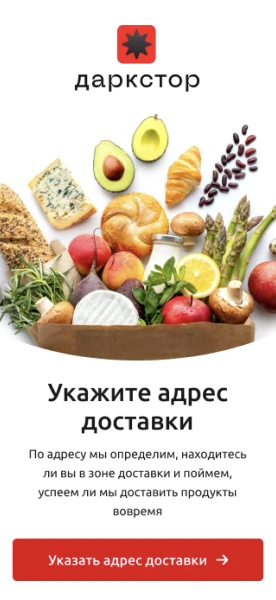
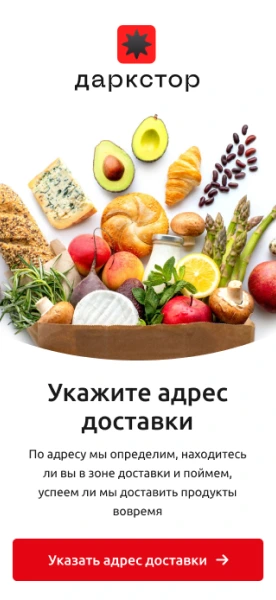
Content edition

diff --git a/ui/ProjectCard/index.module.scss b/ui/ProjectCard/index.module.scss
@@ -164,15 +164,27 @@
 	}
 
 	&__left {
-		background-image: url(./asset/store/left.jpg);
+		background-image:
+			image-set(
+				url(./asset/store/left.webp) type("image/webp"),
+				url(./asset/store/left.jpg) type("image/jpeg")
+			);
 	}
 
 	&__center {
-		background-image: url(./asset/store/center.jpg);
+		background-image:
+			image-set(
+				url(./asset/store/center.webp) type("image/webp"),
+				url(./asset/store/center.jpg) type("image/jpeg")
+			);
 	}
 
 	&__right {
-		background-image: url(./asset/store/right.jpg);
+		background-image:
+			image-set(
+				url(./asset/store/right.webp) type("image/webp"),
+				url(./asset/store/right.jpg) type("image/jpeg")
+			);
 	}
 
 	&_visible {
@@ -230,14 +242,22 @@
 	&__left {
 		width: 138px;
 		height: 300px;
-		background-image: url(./asset/darkstore/left.jpg);
+		background-image:
+			image-set(
+				url(./asset/darkstore/left.webp) type("image/webp"),
+				url(./asset/darkstore/left.jpg) type("image/jpeg")
+			);
 		border-radius: 7px;
 	}
 
 	&__right {
 		width: 321px;
 		height: 360px;
-		background-image: url(./asset/darkstore/right.jpg);
+		background-image:
+			image-set(
+				url(./asset/darkstore/right.webp) type("image/webp"),
+				url(./asset/darkstore/right.jpg) type("image/jpeg")
+			);
 		border-radius: 7px 0 0;
 	}
 
@@ -399,13 +419,75 @@
 	}
 }
 
+.marketplace {
+	position: relative;
+	height: 100%;
+
+	&__bottom,
+	&__top {
+		position: absolute;
+		display: flex;
+		align-items: flex-end;
+		overflow: hidden;
+		border-radius: 7px 0 0;
+		opacity: 0;
+	}
+
+	&__bottom {
+		right: 0;
+		bottom: -40px;
+		z-index: 1;
+		width: 453px;
+		box-shadow: 0 -3px 18px 1px rgb(0 0 0 / 14%);
+	}
+
+	&__top {
+		right: -140px;
+		bottom: 120px;
+		width: 556px;
+	}
+
+	&_visible {
+		.marketplace__bottom {
+			opacity: 1;
+			animation: slide-up-300 0.5s cubic-bezier(0.34, 1.56, 0.64, 1), fade-in 0.3s linear;
+		}
+
+		.marketplace__top {
+			opacity: 1;
+			animation: slide-up-300 0.6s cubic-bezier(0.34, 1.56, 0.64, 1), fade-in 0.6s linear;
+		}
+	}
+
+	@media (max-width: 900px) {
+		&__top {
+			right: 0;
+			bottom: -30px;
+			left: 20px;
+			width: 520px;
+			margin: 0 auto;
+			border-radius: 5px 5px 0 0;
+		}
+
+		&__bottom {
+			display: none;
+		}
+	}
+}
+
 .kran {
 	position: relative;
 	display: flex;
 	align-items: center;
 	justify-content: flex-end;
 	height: 100%;
-	background: url(./asset/kran/bg.jpg) no-repeat center right -92px;
+	background-image:
+		image-set(
+			url(./asset/kran/bg.webp) type("image/webp"),
+			url(./asset/kran/bg.jpg) type("image/jpeg")
+		);
+	background-repeat: no-repeat;
+	background-position: center right -92px;
 	background-size: auto 477px;
 	opacity: 0;
 
@@ -471,19 +553,31 @@
 	&__left {
 		width: 208px;
 		height: 395px;
-		background-image: url(./asset/birden/left.png);
+		background-image:
+			image-set(
+				url(./asset/birden/left.webp) type("image/webp"),
+				url(./asset/birden/left.png) type("image/png")
+			);
 	}
 
 	&__center {
 		width: 108px;
 		height: 395px;
-		background-image: url(./asset/birden/center.png);
+		background-image:
+			image-set(
+				url(./asset/birden/center.webp) type("image/webp"),
+				url(./asset/birden/center.png) type("image/png")
+			);
 	}
 
 	&__right {
 		width: 119px;
 		height: 395px;
-		background-image: url(./asset/birden/right.png);
+		background-image:
+			image-set(
+				url(./asset/birden/right.webp) type("image/webp"),
+				url(./asset/birden/right.png) type("image/png")
+			);
 	}
 
 	&_visible {

diff --git a/ui/Factoid/index.module.scss b/ui/Factoid/index.module.scss
@@ -72,7 +72,11 @@
 	}
 
 	&__left {
-		background-image: url(./asset/parser-recruiter/left.jpg);
+		background-image:
+			image-set(
+				url(./asset/parser-recruiter/left.webp) type("image/webp"),
+				url(./asset/parser-recruiter/left.jpg) type("image/jpeg")
+			);
 		filter: blur(1px);
 		transform: translate(-60px, 0) rotate(-17deg);
 		transform-origin: right;
@@ -80,12 +84,20 @@
 
 	&__center {
 		z-index: 1;
-		background-image: url(./asset/parser-recruiter/center.jpg);
+		background-image:
+			image-set(
+				url(./asset/parser-recruiter/center.webp) type("image/webp"),
+				url(./asset/parser-recruiter/center.jpg) type("image/jpeg")
+			);
 		box-shadow: 0 9px 26px 15px rgb(130 67 100 / 17%);
 	}
 
 	&__right {
-		background-image: url(./asset/parser-recruiter/right.jpg);
+		background-image:
+			image-set(
+				url(./asset/parser-recruiter/right.webp) type("image/webp"),
+				url(./asset/parser-recruiter/right.jpg) type("image/jpeg")
+			);
 		filter: blur(1px);
 		transform: translate(60px, 0) rotate(17deg);
 		transform-origin: left;
@@ -199,7 +211,11 @@
 	}
 
 	&__left {
-		background-image: url(./asset/verdi/aside.jpg);
+		background-image:
+			image-set(
+				url(./asset/verdi/aside.webp) type("image/webp"),
+				url(./asset/verdi/aside.jpg) type("image/jpeg")
+			);
 		filter: blur(1px);
 		transform: translate(-60px, 0) rotate(-17deg);
 		transform-origin: right;
@@ -207,12 +223,20 @@
 
 	&__center {
 		z-index: 1;
-		background-image: url(./asset/verdi/center.jpg);
+		background-image:
+			image-set(
+				url(./asset/verdi/center.webp) type("image/webp"),
+				url(./asset/verdi/center.jpg) type("image/jpeg")
+			);
 		box-shadow: 0 9px 26px 15px rgb(130 67 100 / 17%);
 	}
 
 	&__right {
-		background-image: url(./asset/verdi/aside.jpg);
+		background-image:
+			image-set(
+				url(./asset/verdi/aside.webp) type("image/webp"),
+				url(./asset/verdi/aside.jpg) type("image/jpeg")
+			);
 		filter: blur(1px);
 		transform: translate(60px, 0) rotate(17deg);
 		transform-origin: left;
@@ -253,7 +277,11 @@
 	}
 
 	&__left {
-		background-image: url(./asset/behance/left.jpg);
+		background-image:
+			image-set(
+				url(./asset/behance/left.webp) type("image/webp"),
+				url(./asset/behance/left.jpg) type("image/jpeg")
+			);
 		filter: blur(1px);
 		transform: translate(-120px, 30px) rotate(-17deg);
 		transform-origin: right;
@@ -265,7 +293,11 @@
 		z-index: 1;
 		width: 236px;
 		height: 241px;
-		background-image: url(./asset/behance/center.jpg);
+		background-image:
+			image-set(
+				url(./asset/behance/center.webp) type("image/webp"),
+				url(./asset/behance/center.jpg) type("image/jpeg")
+			);
 		background-repeat: no-repeat;
 		background-size: 236px 241px;
 		border-radius: 7px 7px 0 0;
@@ -275,7 +307,11 @@
 	}
 
 	&__right {
-		background-image: url(./asset/behance/right.jpg);
+		background-image:
+			image-set(
+				url(./asset/behance/right.webp) type("image/webp"),
+				url(./asset/behance/right.jpg) type("image/jpeg")
+			);
 		filter: blur(1px);
 		transform: translate(120px, 30px) rotate(17deg);
 		transform-origin: left;

diff --git a/ui/ProjectCard/index.tsx b/ui/ProjectCard/index.tsx
@@ -13,6 +13,9 @@ import UaeLeft from './asset/uae/left.jpg'
 import UaeRight from './asset/uae/right.jpg'
 import SamoImage from './asset/samo/image.jpg'
 
+import MarketplaceBottomImage from './asset/marketplace/bottom.jpg'
+import MarketplaceTopImage from './asset/marketplace/top.jpg'
+
 export function ProjectCard({ data }: { data: Project }) {
   return (
     <div className={st['project-card']}>
@@ -62,6 +65,24 @@ export function ProjectCardLargeBase({ data, children, onVisible }: { data: Proj
         { children }
       </div>
     </div>
+  )
+}
+
+export function ProjectCardLargeMarketplace({ data }: { data: Project }) {
+  const [isVisible, setIsVisible] = useState(false)
+  return (
+    <ProjectCardLargeBase data={data} onVisible={() => setIsVisible(true)}>
+      <div className={cls(st['marketplace'], {
+        [st['marketplace_visible']]: isVisible
+      })}>
+        <div className={st['marketplace__bottom']}>
+          <Image src={MarketplaceBottomImage} width="453" className={st['marketplace__preview']} alt={data.title} />
+        </div>
+        <div className={st['marketplace__top']}>
+          <Image src={MarketplaceTopImage} width="553" className={st['marketplace__preview-top']} alt={data.title} />
+        </div>
+      </div>
+    </ProjectCardLargeBase>
   )
 }
 

diff --git a/ui/ProjectGrid/index.tsx b/ui/ProjectGrid/index.tsx
@@ -7,7 +7,8 @@ import {
   ProjectCardLargeUae, 
   ProjectCardLargeSamo, 
   ProjectCardLargeKran,
-  ProjectCardLargeBirden 
+  ProjectCardLargeBirden, 
+  ProjectCardLargeMarketplace
 } from "ui/ProjectCard";
 import cls from 'classnames'
 import st from './index.module.scss'
@@ -23,7 +24,14 @@ export default function ProjectGrid({ list }: { list: Array<Project & { type?: P
     <div className={st['project-grid']}>
       { 
         list.map((el, index) => {
-          if (el.type === 'constructor') {
+
+          if (el.type === 'marketplace') {
+            return (
+              <article key={index} className={cls(st['project-grid__el'], st['project-grid__el_large'])}>
+                <ProjectCardLargeMarketplace data={el} />
+              </article>
+            )
+          } else if (el.type === 'constructor') {
             return (
               <article key={index} className={cls(st['project-grid__el'], st['project-grid__el_large'])}>
                 <ProjectCardLargeConstructor data={el} />

diff --git a/app/[lng]/head.tsx b/app/[lng]/head.tsx
@@ -1,7 +1,8 @@
 import { useTranslation } from "i18n/index";
 import { Language } from "shared/type/Language";
 
-export default async function Head({ params: { lng } }: { params: { lng: Language }}) {
+export default async function Head({ params }: { params: Promise<{ lng: Language }>}) {
+  const { lng } = await params
   const { t } = await useTranslation(lng, ['about'])
 
   return (

diff --git a/shared/type/Project.ts b/shared/type/Project.ts
@@ -9,7 +9,8 @@ export type ProjectType =
   'samo' | 
   'kran' | 
   'behance' | 
-  'birden'
+  'birden' | 
+  'marketplace'
 
 export interface ProjectDate {
   from: number,
